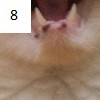
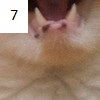
Tile ID is the same as tile No - simplified for easier debugging

Changed region(s): [[0.27, 0.0, 0.33, 0.33], [0.09, 0.09, 0.18, 0.21]]

diff --git a/src/kamilkonieczek/ImgBoardFXCtrlr.java b/src/kamilkonieczek/ImgBoardFXCtrlr.java
@@ -12,7 +12,7 @@ public class ImgBoardFXCtrlr {
 
     private ImgBoardViewModel imgBoardViewModel = new ImgBoardViewModel();
     private Board board = new Board();
-    private TilesPosArray tilesPosArray = new TilesPosArray(150, 150, 25, 25);
+    private TilesPosArray tilesPosArray = new TilesPosArray(150, 150, 0, 0);
     private int[] tilesOrder = {0,1,2,3,4,5,6,7,8};
     private double[] xPos = new double[9];
     private double[] yPos = new double[9];
@@ -37,7 +37,7 @@ public class ImgBoardFXCtrlr {
     @FXML
     void initialize(){
 
-        //board.shuffleBoard();
+        board.shuffleBoard();
         board.drawBoard();
         tilesOrder = board.getTilesOrder();
         tilesPosArray.setTileOrder(tilesOrder);
